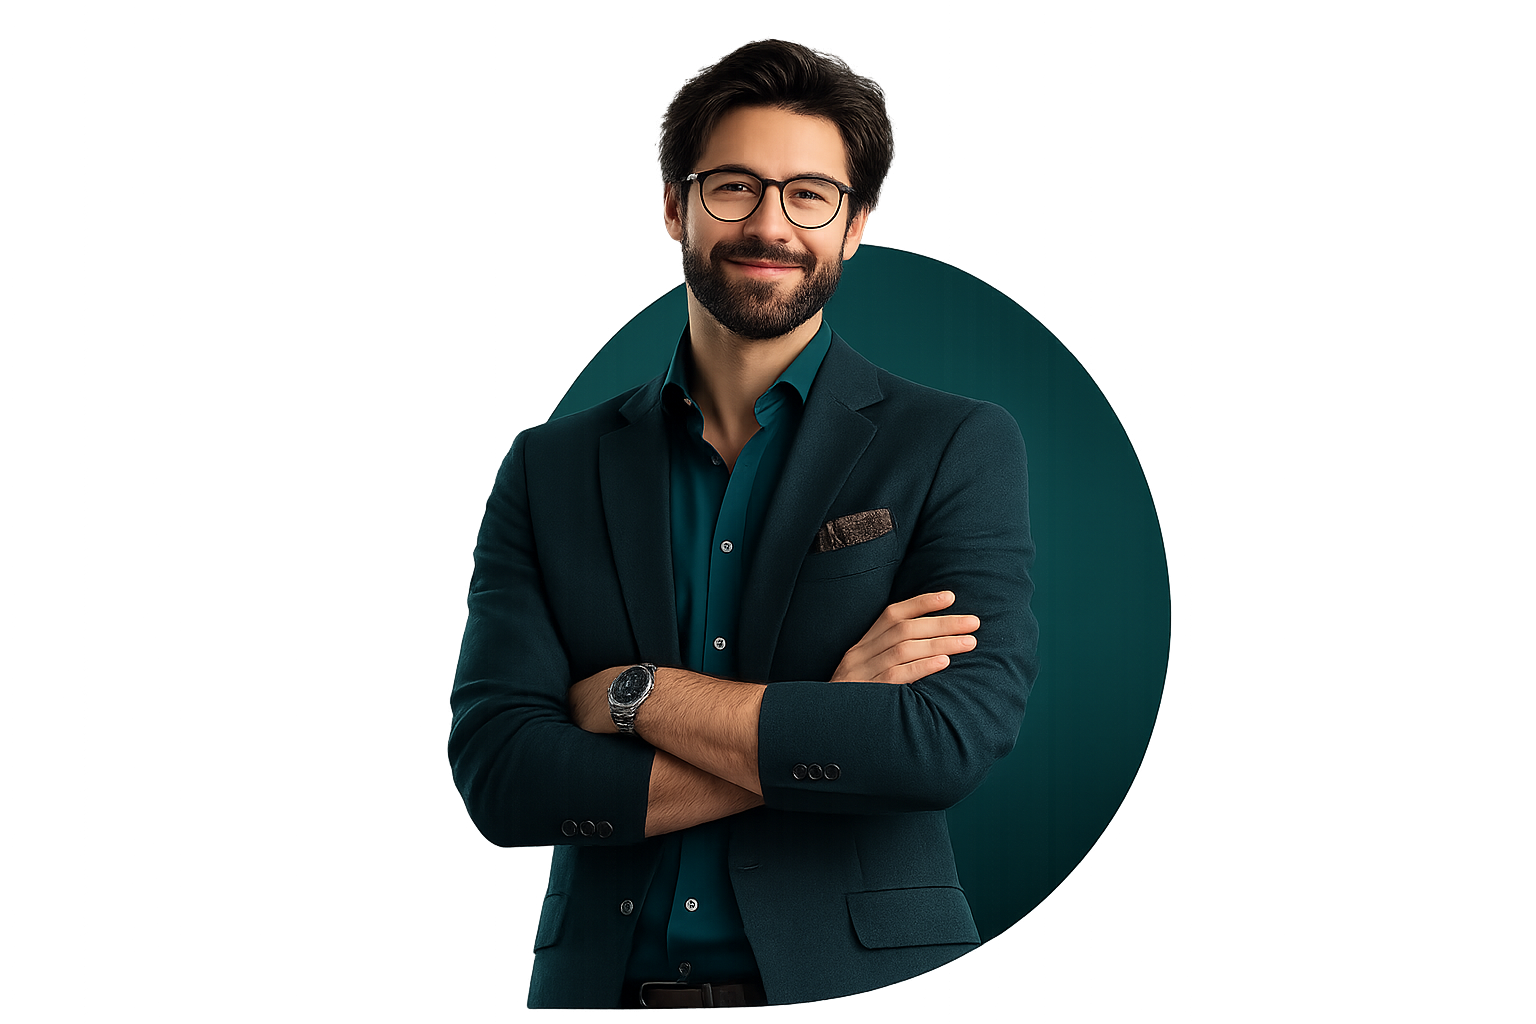
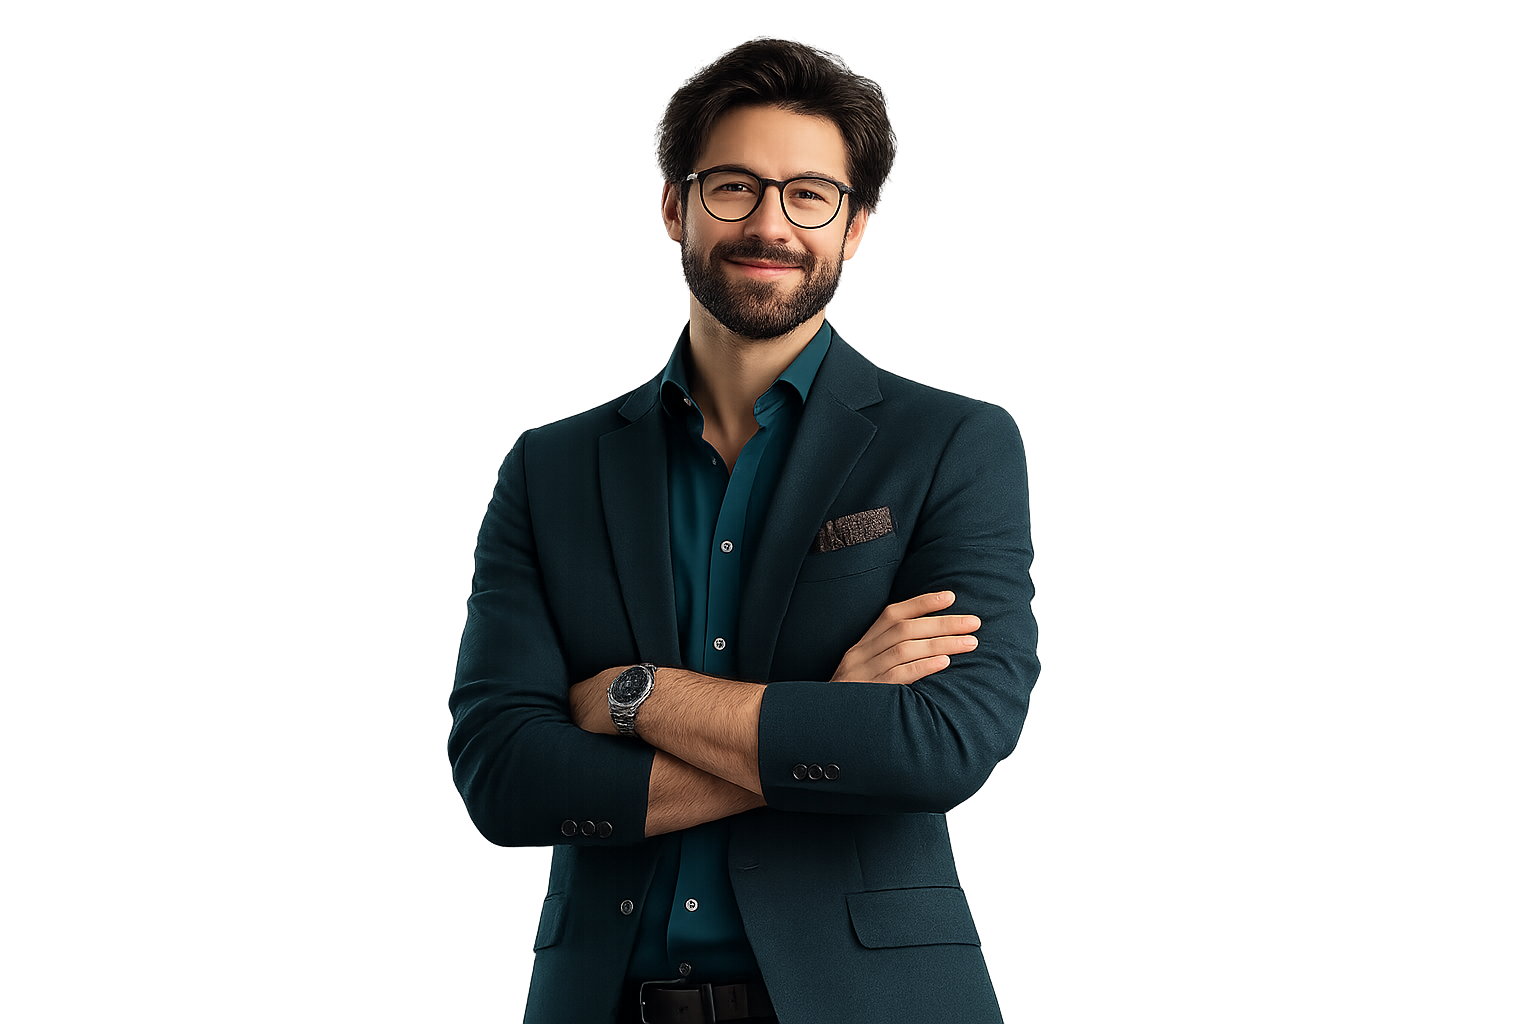
+

diff --git a/css/home.css b/css/home.css
@@ -396,7 +396,7 @@
 }
 
 .ref-hero__decor-star--left {
-    left: 26px;
+    left: 15px;
     top: 120px;
     z-index: 6;
     width: 28px;
@@ -2169,4 +2169,32 @@
     }
 
    
+}
+
+/* =====================================================
+   REF HERO PERSON SIZE FIX
+   увеличиваем только фото, круг НЕ трогаем
+===================================================== */
+
+.home-page .ref-hero__visual {
+    --person-nudge-x: 0px;
+    --person-nudge-y: 42px;
+    --person-scale: 1.68;
+}
+
+/* увеличивает именно фото/человека */
+.home-page .ref-hero__person-wrap {
+    transform: translate(var(--person-nudge-x),
+            var(--person-nudge-y)) scale(var(--person-scale)) !important;
+
+    transform-origin: center bottom !important;
+}
+
+/* чтобы картинка не ограничивалась старым max-height */
+.home-page .ref-hero__person {
+    width: 100% !important;
+    height: auto !important;
+    max-height: none !important;
+    object-fit: contain !important;
+    object-position: center bottom !important;
 }